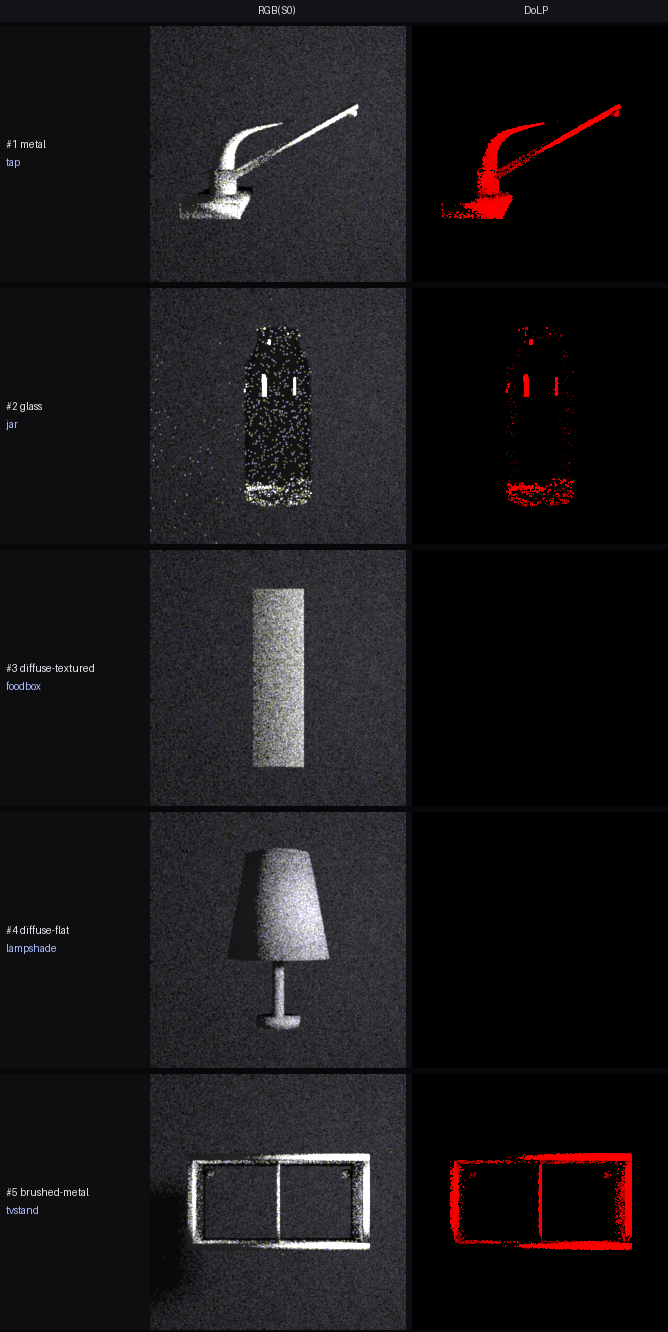
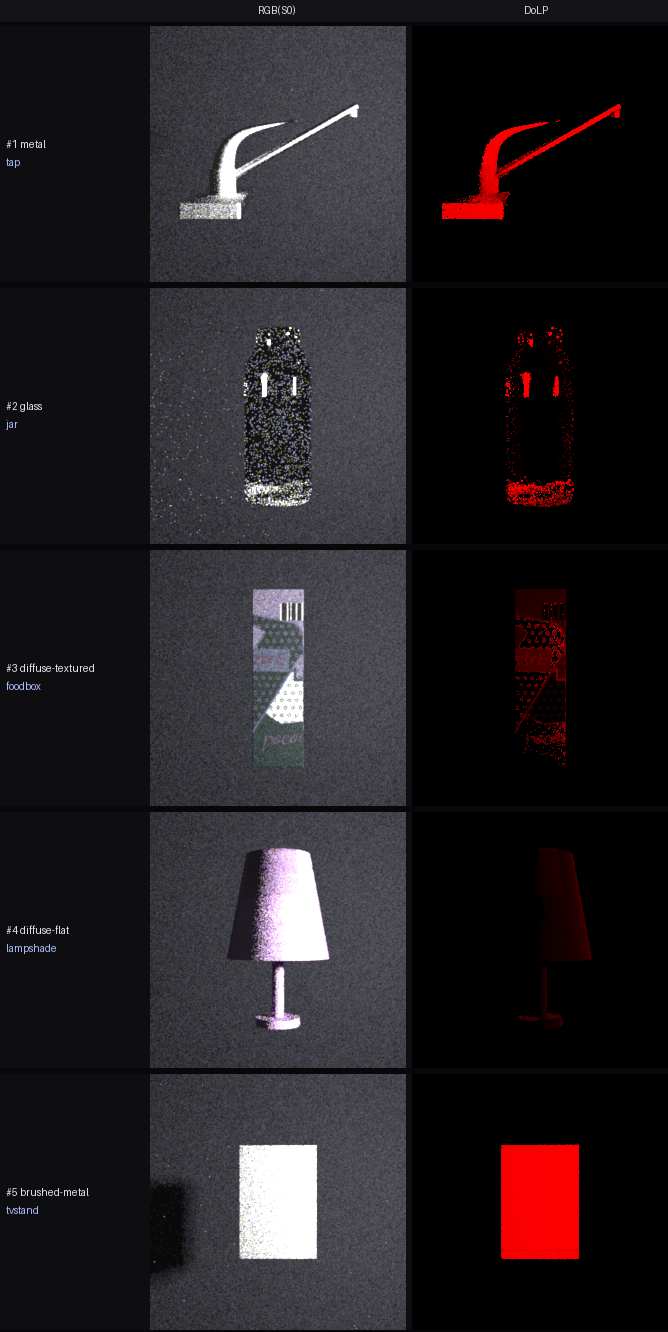
dev_report(0706): pplastic+conductor+dielectric trio + glb-UV textures
Address review feedback on the optical-class polarization renders:
- Polarization plugin trio: conductor/roughconductor (metal), dielectric
  (glass), pplastic (diffuse/plastic). Capability test: dielectric 0.999,
  conductor 0.95, pplastic 0.87 all polarize; roughdielectric / thindielectric
  / plastic / roughplastic give DoLP=0 (no polarized Fresnel) — banned.
- S0 now carries real RGB color: recovered UVs from .glb (the .obj export
  dropped them) and mapped baked albedo textures (foodbox label, lampshade
  fabric). diffuse now uses pplastic so matte surfaces show a realistic weak
  polarized sheen (foodbox ~0.2, lampshade ~0.06 rising to grazing) instead
  of the roughplastic zero.
- Re-rendered all 5 objects x 2 modes at spp6000.

Known limit: single-BSDF injection renders multi-material objects (tvstand
metal+wood, jar glass+wood) with one class; per-material split is follow-up.

diff --git a/dev_report/report_2026-07-06_optical_class_polarization.html b/dev_report/report_2026-07-06_optical_class_polarization.html
@@ -15,6 +15,7 @@
  th{background:#eef2f7}
  .k{color:#12386b;font-weight:600}
  .warn{background:#fffbeb;border-left:4px solid #f0b400;padding:8px 12px;margin:12px 0}
+ .ok{background:#ecfdf3;border-left:4px solid #12b76a;padding:8px 12px;margin:12px 0}
 </style></head><body>
 
 <h1>Optical-class 대표 오브젝트 — PBR 맵 시각화 + 편광 광원 스윕</h1>
@@ -22,62 +23,75 @@
 
 <h2>대상 오브젝트 (5)</h2>
 <table>
-<tr><th>#</th><th>class</th><th>오브젝트</th><th>재질 (manifest)</th><th>편광 요약 (본 렌더)</th></tr>
-<tr><td>1</td><td class="k">metal</td><td>수도꼭지 (Tap)</td><td><code>shader_metal.213</code> · metallic=1.0 · rough=0.6 · optical_class=metal_aluminum · baked ARMN</td><td>DoLP 0.89→0.93 (전면 강한 편광)</td></tr>
-<tr><td>2</td><td class="k">glass</td><td>유리병 (Jar)</td><td><code>shader_glass_volume.247</code> · is_glass · IOR=1.5 · <b>baked PBR 없음</b></td><td>DoLP 0.63→0.66 (specular만, 입사각 의존)</td></tr>
-<tr><td>3</td><td class="k">diffuse (textured)</td><td>식품상자 (FoodBox)</td><td><code>shader_text.502</code> · 인쇄 라벨 albedo · metallic=0.39(무시됨)</td><td>DoLP ≈ 0 (depolarizing)</td></tr>
-<tr><td>4</td><td class="k">diffuse (flat)</td><td>직물 램프갓 (DeskLamp)</td><td><code>shader_fine_knit_fabric.044</code> · 절차적 직물</td><td>DoLP ≈ 0 (depolarizing)</td></tr>
-<tr><td>5</td><td class="k">brushed-metal</td><td>TV장 (TVStand)</td><td><code>shader_brushed_metal.249</code> · <b>metallic=0.0</b> but optical_class=metal_aluminum</td><td>DoLP 0.86→0.95 (금속처럼 강한 편광)</td></tr>
+<tr><th>#</th><th>class</th><th>오브젝트</th><th>주입 BSDF</th><th>편광 요약 (본 렌더)</th></tr>
+<tr><td>1</td><td class="k">metal</td><td>수도꼭지 (Tap)</td><td><code>roughconductor</code> Al</td><td>DoLP ~0.9 (전면 강한 편광)</td></tr>
+<tr><td>2</td><td class="k">glass</td><td>유리병 (Jar)</td><td><code>dielectric</code> (IOR 1.5)</td><td>DoLP 0.63→0.66 (specular만, 입사각 의존)</td></tr>
+<tr><td>3</td><td class="k">diffuse (textured)</td><td>식품상자 (FoodBox)</td><td><code>pplastic</code> + 인쇄 라벨 albedo</td><td>DoLP ~0.2 (약한 코팅 편광)</td></tr>
+<tr><td>4</td><td class="k">diffuse (flat)</td><td>직물 램프갓 (DeskLamp)</td><td><code>pplastic</code> + 직물 albedo</td><td>DoLP ~0.06→0.09 (grazing서 상승)</td></tr>
+<tr><td>5</td><td class="k">brushed-metal</td><td>TV장 (TVStand)</td><td><code>roughconductor</code> Al (<b>metallic=0</b>이지만 optical_class=metal)</td><td>DoLP ~0.9 (금속처럼 편광)</td></tr>
 </table>
 
-<h2>1. PBR 채널맵 시각화 (mesh / albedo / metallic / roughness / normal + IOR)</h2>
+<div class="ok"><b>편광 플러그인 트리오</b>: 재질을 <b><code>conductor</code>/<code>roughconductor</code>(금속·거울) + <code>dielectric</code>(유리) + <code>pplastic</code>(diffuse·plastic)</b> 로 주입한다. 아래 §요약 밑의 표 참고 — 이 셋만이 이 빌드의 폴라라이즈드 variant에서 편광 Fresnel을 낸다.</div>
+
+<h2>1. PBR 채널맵 시각화 (albedo / metallic / roughness / normal + IOR)</h2>
 <figure>
   <img src="images/0706_optclass_pbr_maps.png" alt="PBR channel maps per object">
-  <figcaption>오브젝트별 베이크된 PBR 맵과 스칼라 파라미터. 관찰: <b>metal(tap)</b>의 albedo=검정(금속은 diffuse albedo 없음)·metallic=흰색. <b>glass(jar)</b>는 맵이 전혀 없음 → "유리=IOR-only" 그림 그 자체. <b>foodbox</b> albedo에 진짜 인쇄 라벨(바코드·문자). <b>tvstand(brushed-metal)</b>는 albedo=나무톤에 <b>metallic 맵=검정(0.0)</b>인데도 optical_class는 metal → 값과 분류의 불일치가 보인다.</figcaption>
+  <figcaption>오브젝트별 베이크된 PBR 맵과 스칼라 파라미터. 관찰: <b>metal(tap)</b> albedo=검정(금속은 diffuse albedo 없음)·metallic=흰색. <b>glass(jar)</b>는 맵이 전혀 없음 → "유리=IOR-only". <b>foodbox</b> albedo=진짜 인쇄 라벨. <b>tvstand(brushed-metal)</b>는 metallic 맵=검정(0.0)인데도 optical_class는 metal. (이 맵들은 <code>.glb</code>의 UV로 베이크됨 — <code>.obj</code> export가 UV를 잃어서 렌더에는 glb의 UV를 복원해 사용.)</figcaption>
 </figure>
 
 <h2>2. 광학 클래스 요약 — RGB(S0) vs DoLP</h2>
 <figure>
   <img src="images/0706_optclass_summary.png" alt="RGB vs DoLP per optical class" style="max-width:560px;margin:0 auto">
-  <figcaption>대표 프레임 1장씩. RGB에서는 다섯 오브젝트 모두 보이지만, <b>DoLP에서는 금속(tap·tvstand)과 유리(jar)만 빨갛게 켜지고 diffuse(foodbox·lampshade)는 완전히 검다</b>. 편광이 optical class를 분리한다. tvstand는 metallic=0인데도 금속처럼 편광 → conductor로 렌더됨을 직접 확인.</figcaption>
+  <figcaption>대표 프레임 1장씩. RGB(S0)는 각 재질의 실제 색을 담는다(foodbox 인쇄 라벨, lampshade 분홍 직물 — glb UV로 베이크 텍스처 매핑). DoLP: <b>금속(tap·tvstand)≈0.9 강함, 유리(jar) specular만, diffuse는 pplastic 코팅으로 약하게(foodbox~0.2, lampshade~0.06)</b>. 편광 세기가 optical class를 정렬한다. tvstand는 metallic=0인데도 금속처럼 강편광 → conductor로 렌더됨.</figcaption>
 </figure>
 
-<div class="warn"><b>렌더 파이프라인 발견</b>: 이 검증 빌드의 <code>roughdielectric</code> BSDF는 편광 Fresnel을 생성하지 못한다(DoLP≡0). 최소 테스트에서 smooth <code>dielectric</code>=DoLP 0.999, <code>roughdielectric</code>=0.000, <code>conductor</code>=0.95. → 유리 편광은 반드시 smooth <code>dielectric</code>으로 렌더해야 하며(유리병 rough=0이라 물리적으로도 맞음), <code>render_material_closeups.py</code> 등 dielectric 주입 경로 점검 필요.</div>
+<h3>편광 지원 플러그인 (검증 빌드, <code>cuda_ad_spectral_polarized</code>)</h3>
+<table>
+<tr><th>플러그인</th><th>DoLP(Brewster 테스트)</th><th>편광</th><th>용도</th></tr>
+<tr><td><code>dielectric</code> (smooth)</td><td>0.999</td><td>✅</td><td>유리(매끈)</td></tr>
+<tr><td><code>conductor</code> / <code>roughconductor</code></td><td>0.95</td><td>✅</td><td>금속·거울</td></tr>
+<tr><td><code>pplastic</code></td><td>0.87</td><td>✅</td><td>diffuse·도장·직물·코팅</td></tr>
+<tr><td><code>roughdielectric</code></td><td>0.000</td><td>❌</td><td>(편광 미지원 — 사용 금지)</td></tr>
+<tr><td><code>thindielectric</code></td><td>0.000</td><td>❌</td><td>미지원</td></tr>
+<tr><td><code>plastic</code> / <code>roughplastic</code></td><td>0.000</td><td>❌</td><td>미지원 → pplastic로 대체</td></tr>
+</table>
+<div class="warn"><b>주의</b>: 투과형 microfacet <code>roughdielectric</code>과 <code>plastic</code>/<code>roughplastic</code>은 이 빌드에서 편광 Fresnel을 만들지 못한다(DoLP≡0). 유리는 <code>dielectric</code>(smooth), 도장/plastic/diffuse는 <code>pplastic</code>으로 주입해야 편광이 나온다. <code>render_material_closeups.py</code> 등 dielectric/plastic 주입 경로 점검 필요.</div>
 
 <h2>3. 움직이는 편광 광원 스윕 (오브젝트당 2종)</h2>
-<p>능동 편광 조명 = <b>area emitter + 그 앞의 linear polarizer</b>(delta spot/point는 편광판 투과 불가라 area 필수). 두 가지 모션:</p>
+<p>능동 편광 조명 = <b>area emitter + 그 앞의 linear polarizer</b>(delta spot/point는 편광판 투과 불가라 area 필수, polarizer는 emitter보다 크게). 두 모션:</p>
 <ul>
-<li><b>입사각 궤도(orbit)</b>: flash를 오브젝트 주위로 이동(azimuth 20°→85°) → 국소 입사각이 grazing으로 감. 유리는 Brewster 부근에서 DoLP 상승.</li>
-<li><b>polarizer 회전(polrot)</b>: flash 고정, 조명 polarizer θ 0→180° 회전 → specular 반사의 AoLP가 각도를 추종.</li>
+<li><b>입사각 궤도(orbit)</b>: flash를 오브젝트 주위로 이동(azimuth 20°→85°) → 국소 입사각이 grazing으로. 유리·plastic은 Brewster 부근서 DoLP 상승.</li>
+<li><b>polarizer 회전(polrot)</b>: flash 고정, 조명 polarizer θ 0→180° 회전 → specular 반사의 AoLP가 각도 추종.</li>
 </ul>
-<p>5패널 = RGB(S0) · DoLP · AoLP · s1/s0 · s2/s0. specular 마스크(S0&gt;0.04 &amp; DoLP&gt;0.05)로 편광 영역만 표시. spp2048.</p>
+<p>5패널 = RGB(S0) · DoLP · AoLP · s1/s0 · s2/s0. specular 마스크(S0&gt;0.04 &amp; DoLP&gt;0.05). spp6000.</p>
 
 <h3>#1 metal — 수도꼭지</h3>
 <figure><img src="images/0706_optclass_tap_orbit.gif" alt="tap orbit"><figcaption>입사각 궤도. 금속 전면이 조명 편광을 보존해 DoLP≈0.9로 강하게 켜진다.</figcaption></figure>
 <figure><img src="images/0706_optclass_tap_polrot.gif" alt="tap polrot"><figcaption>polarizer 회전. AoLP/s1/s2가 조명 각도를 따라 회전.</figcaption></figure>
 
-<h3>#2 glass — 유리병</h3>
-<figure><img src="images/0706_optclass_jar_orbit.gif" alt="jar orbit"><figcaption>입사각 궤도. 투명 유리는 <b>specular 하이라이트(세로 두 줄 등)에서만</b> 편광이 뜨고, grazing으로 갈수록 DoLP가 커진다(Brewster). 확산 몸통은 편광 없음.</figcaption></figure>
-<figure><img src="images/0706_optclass_jar_polrot.gif" alt="jar polrot"><figcaption>polarizer 회전. smooth <code>dielectric</code>으로 렌더(roughdielectric은 DoLP=0).</figcaption></figure>
+<h3>#2 glass — 유리병 (<code>dielectric</code>)</h3>
+<figure><img src="images/0706_optclass_jar_orbit.gif" alt="jar orbit"><figcaption>입사각 궤도. 투명 유리는 <b>specular 하이라이트에서만</b> 편광이 뜨고 grazing으로 갈수록 DoLP↑(Brewster). smooth <code>dielectric</code>으로 렌더(roughdielectric은 DoLP=0).</figcaption></figure>
+<figure><img src="images/0706_optclass_jar_polrot.gif" alt="jar polrot"><figcaption>polarizer 회전.</figcaption></figure>
 
-<h3>#3 diffuse-textured — 식품상자</h3>
-<figure><img src="images/0706_optclass_foodbox_orbit.gif" alt="foodbox orbit"><figcaption>입사각 궤도. RGB에는 인쇄 라벨이 뚜렷하지만 <b>DoLP/AoLP는 계속 검정</b> — Lambertian diffuse가 편광을 지운다. "텍스처는 RGB에만, 편광엔 없음"의 예.</figcaption></figure>
-<figure><img src="images/0706_optclass_foodbox_polrot.gif" alt="foodbox polrot"><figcaption>polarizer를 돌려도 편광 응답 없음(depolarizing surface).</figcaption></figure>
+<h3>#3 diffuse-textured — 식품상자 (<code>pplastic</code> + 라벨 텍스처)</h3>
+<figure><img src="images/0706_optclass_foodbox_orbit.gif" alt="foodbox orbit"><figcaption>RGB(S0)에 진짜 인쇄 라벨(바코드·문자·물방울). pplastic 코팅이라 DoLP≈0.2의 약한 편광이 뜬다(순수 Lambertian이면 0). 텍스처는 glb UV로 매핑.</figcaption></figure>
+<figure><img src="images/0706_optclass_foodbox_polrot.gif" alt="foodbox polrot"><figcaption>polarizer 회전에 코팅 반사의 AoLP가 반응.</figcaption></figure>
 
-<h3>#4 diffuse-flat — 직물 램프갓</h3>
-<figure><img src="images/0706_optclass_lampshade_orbit.gif" alt="lampshade orbit"><figcaption>#3과 동일하게 DoLP≈0. flat 절차적 직물도 편광 신호 없음.</figcaption></figure>
-<figure><img src="images/0706_optclass_lampshade_polrot.gif" alt="lampshade polrot"><figcaption>polarizer 회전에도 무응답.</figcaption></figure>
+<h3>#4 diffuse-flat — 직물 램프갓 (<code>pplastic</code> + 직물 텍스처)</h3>
+<figure><img src="images/0706_optclass_lampshade_orbit.gif" alt="lampshade orbit"><figcaption>분홍 직물 색이 RGB에 나온다. DoLP는 매우 약하지만(≈0.06) grazing 입사로 갈수록 커진다 — matte 표면의 Fresnel 편광.</figcaption></figure>
+<figure><img src="images/0706_optclass_lampshade_polrot.gif" alt="lampshade polrot"><figcaption>polarizer 회전.</figcaption></figure>
 
 <h3>#5 brushed-metal — TV장 (Q3)</h3>
-<figure><img src="images/0706_optclass_tvstand_orbit.gif" alt="tvstand orbit"><figcaption>입사각 궤도. <b>metallic=0.0</b>인데 optical_class=metal이라 conductor로 렌더 → 금속처럼 DoLP≈0.9로 강하게 편광된다. 값(metallic=0)과 렌더(conductor)의 불일치가 편광으로 드러남.</figcaption></figure>
-<figure><img src="images/0706_optclass_tvstand_polrot.gif" alt="tvstand polrot"><figcaption>polarizer 회전에 금속 편광이 각도 추종.</figcaption></figure>
+<figure><img src="images/0706_optclass_tvstand_orbit.gif" alt="tvstand orbit"><figcaption><b>metallic=0.0</b>인데 optical_class=metal이라 conductor로 렌더 → 금속처럼 DoLP≈0.9로 강편광. 값(metallic=0)과 렌더(conductor)의 불일치가 편광으로 드러난다. (단일 BSDF 주입이라 나무 부분도 금속으로 렌더 — multi-material 분리는 후속.)</figcaption></figure>
+<figure><img src="images/0706_optclass_tvstand_polrot.gif" alt="tvstand polrot"><figcaption>polarizer 회전.</figcaption></figure>
 
 <h2>4. 결론</h2>
 <ul>
-<li><b>편광은 optical class를 분리한다</b>: 금속/유리는 specular 편광(DoLP↑), diffuse는 depolarizing(DoLP≈0). RGB만으로는 안 보이는 재질 구분이 편광 채널에서 드러난다.</li>
-<li><b>유리 = IOR-only</b>: baked PBR 맵이 없고 IOR만 있으며, 편광은 <b>Brewster 부근 grazing 입사</b>에서만 강하게 나타난다(정면 반사율 ~4%).</li>
-<li><b>brushed-metal(#5)</b>: metallic=0 스칼라와 무관하게 optical_class로 conductor 렌더 → 편광이 금속임을 폭로.</li>
-<li><b>파이프라인 주의</b>: <code>roughdielectric</code> 편광 미지원(DoLP=0) → 유리는 smooth <code>dielectric</code> 필수. 편광 area flash의 polarizer는 emitter보다 크게.</li>
+<li><b>편광은 optical class를 분리한다</b>: 금속(DoLP~0.9) &gt; 유리(specular만) &gt; diffuse(pplastic 약한 코팅 편광). RGB만으로는 안 보이는 구분이 편광 채널에서 드러난다.</li>
+<li><b>플러그인 트리오</b>: <code>conductor</code>(금속) + <code>dielectric</code>(유리) + <code>pplastic</code>(diffuse/plastic). <code>roughdielectric</code>·<code>roughplastic</code>은 편광 미지원(DoLP=0)이라 금지.</li>
+<li><b>텍스처/색</b>: <code>.glb</code>의 UV를 복원해 베이크 albedo를 매핑 → S0가 실제 재질 색(라벨·직물색)을 담는다. <code>.obj</code> export는 UV를 잃으므로 glb를 써야 한다.</li>
+<li><b>유리 = IOR-only</b> · <b>brushed-metal(#5)</b>는 metallic=0 무관하게 conductor로 편광.</li>
+<li><b>후속</b>: multi-material 오브젝트(tvstand 금속+나무, jar 유리+나무) per-material BSDF 분리 렌더.</li>
 </ul>
 
 </body></html>
